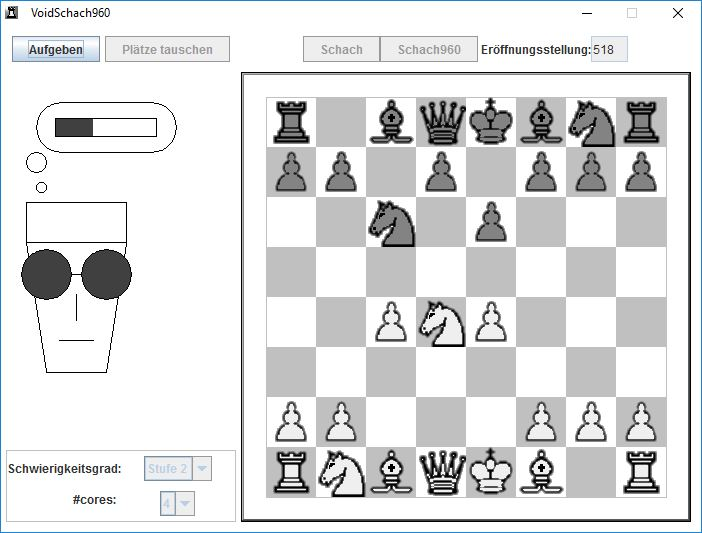
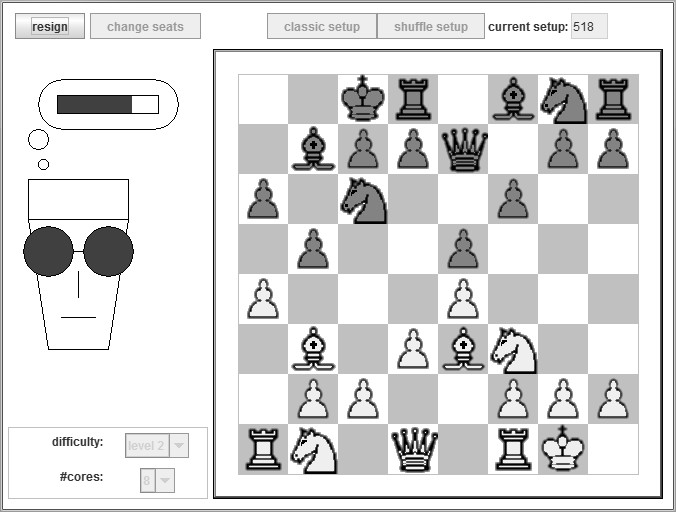
improved the difficulty-label layout, made a new screenshot to show english translations

diff --git a/src/main/java/voidchess/ui/DifficultyPanel.java b/src/main/java/voidchess/ui/DifficultyPanel.java
@@ -65,7 +65,11 @@ public class DifficultyPanel
         }
     }
 
-    JLabel getLabel() {
-        return new JLabel("difficulty:");
+    JPanel getLabel() {
+        JPanel panel = new JPanel(new FlowLayout(FlowLayout.RIGHT));
+        panel.setBackground(Color.WHITE);
+        JLabel label = new JLabel("difficulty:");
+        panel.add(label);
+        return panel;
     }
 }
